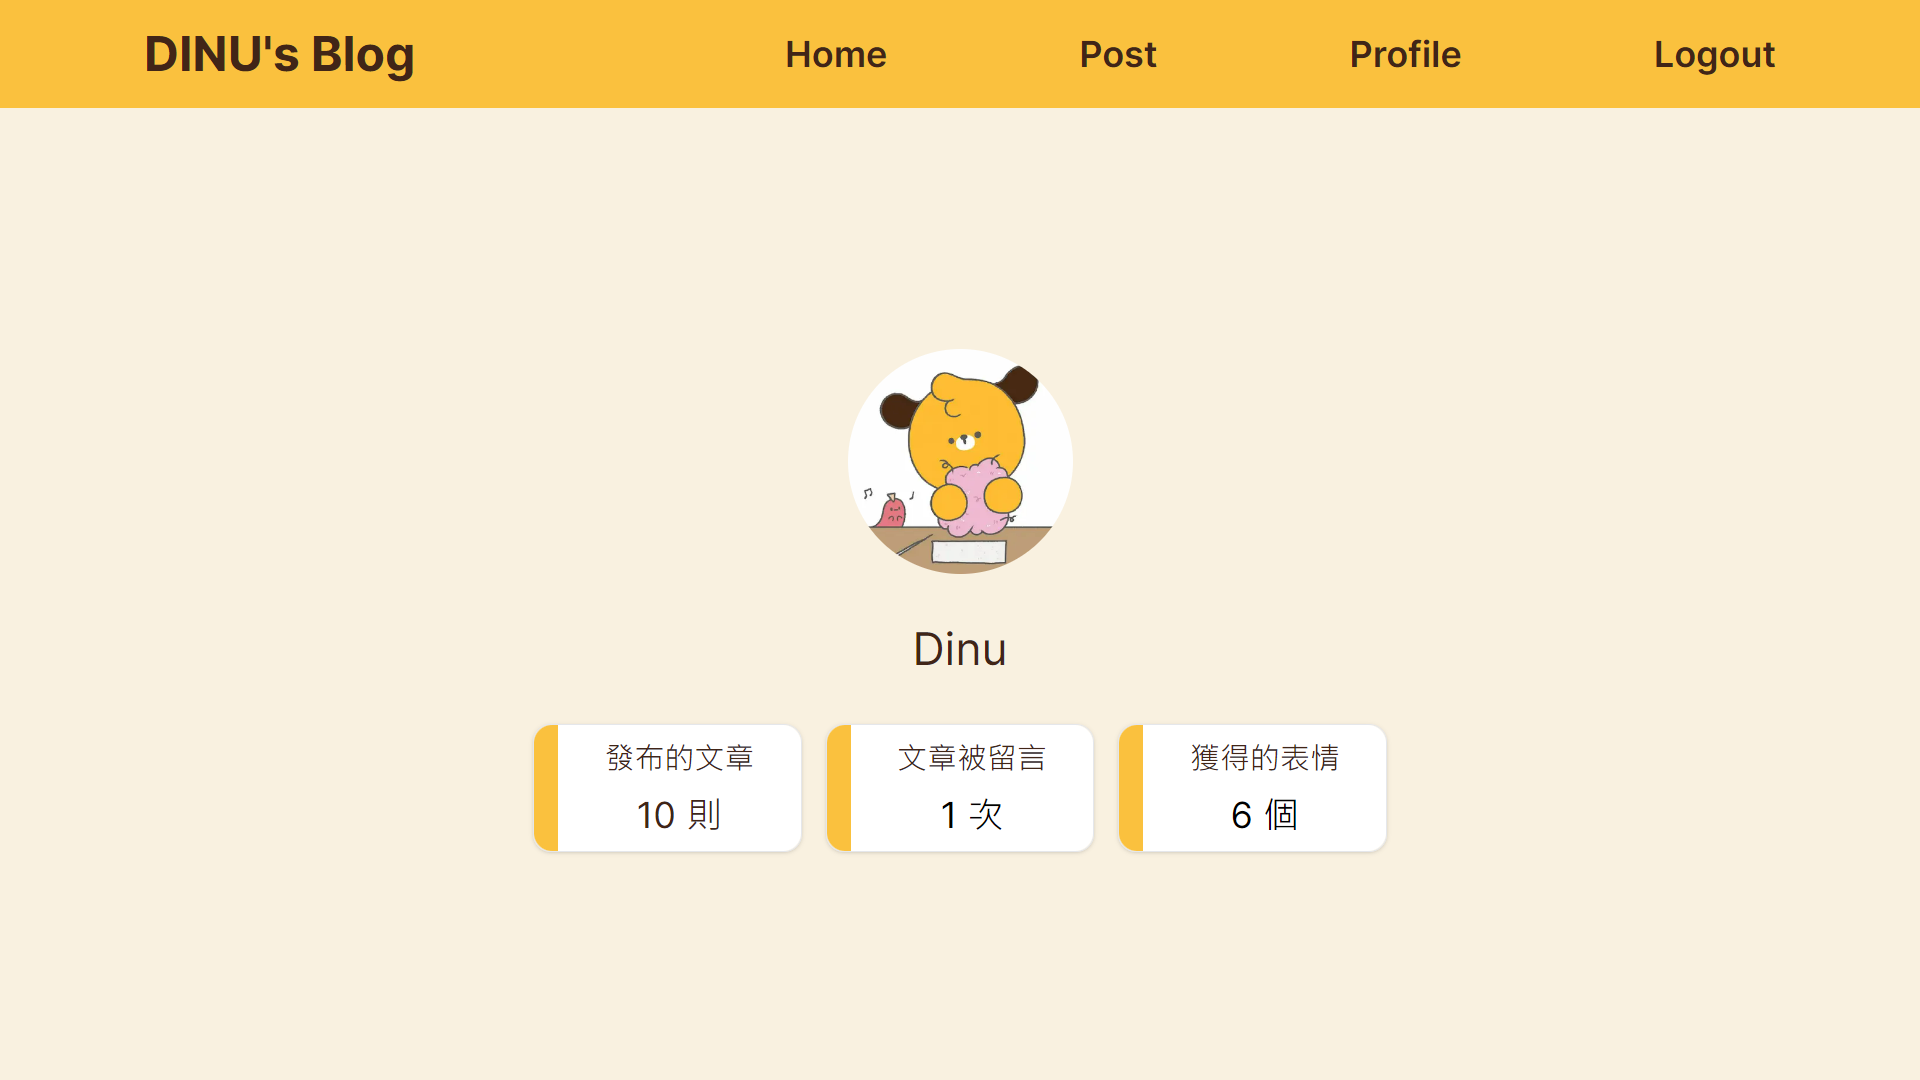
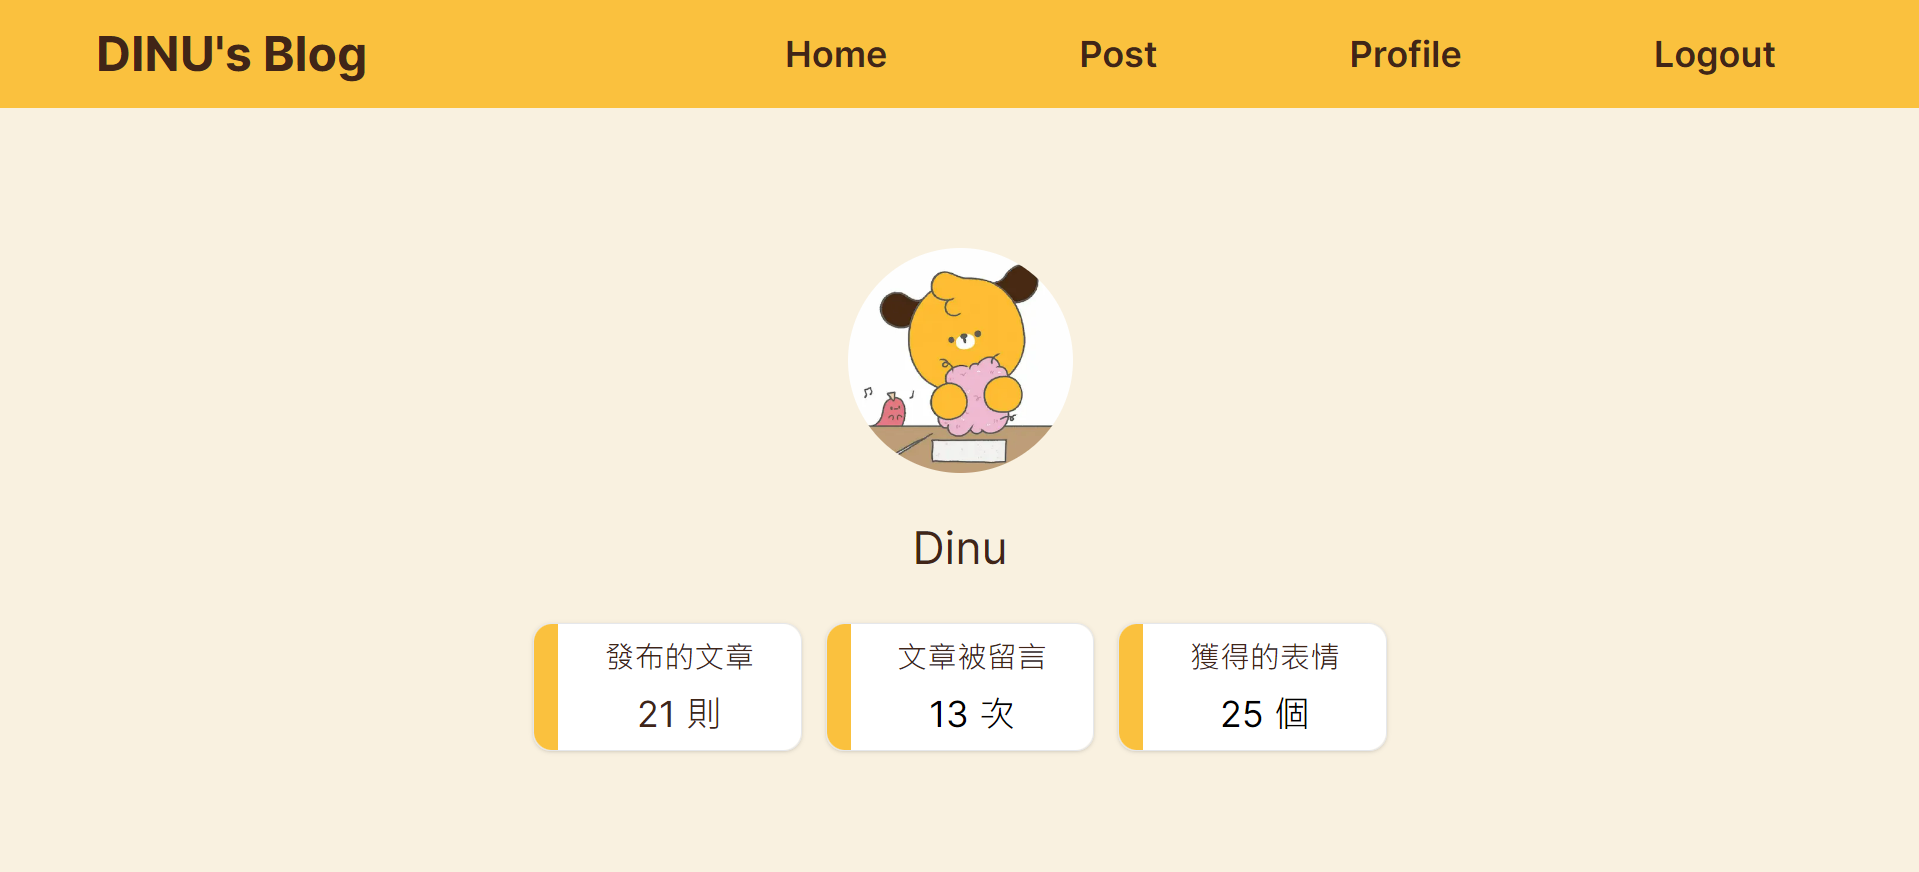
Adjust profile data count rule and renew README images

Changed region(s): [[0.2767, 0.5883, 0.7379, 0.867], [0.0, 0.031, 1.0, 0.1239], [0.4304, 0.2787, 0.5534, 0.5573]]

diff --git a/src/lib/githubApi.ts b/src/lib/githubApi.ts
@@ -180,7 +180,7 @@ export const fetchGithubData = async (): Promise<IssueStatistic> => {
 
 	try {
 		const issuesResponse = await axios.get(
-			`https://api.github.com/search/issues?q=author:${process.env.NEXT_PUBLIC_AUTHOR_GITHUB_USERNAME}+is:issue+user:${process.env.NEXT_PUBLIC_AUTHOR_GITHUB_USERNAME}&sort=created&order=desc`,
+			`https://api.github.com/search/issues?q=author:${process.env.NEXT_PUBLIC_AUTHOR_GITHUB_USERNAME}+is:issue+user:${process.env.NEXT_PUBLIC_AUTHOR_GITHUB_USERNAME}+state:open&sort=created&order=desc`,
 			{
 				headers: {
 					Authorization: `token ${process.env.AUTHOR_GITHUB_PAT}`,
